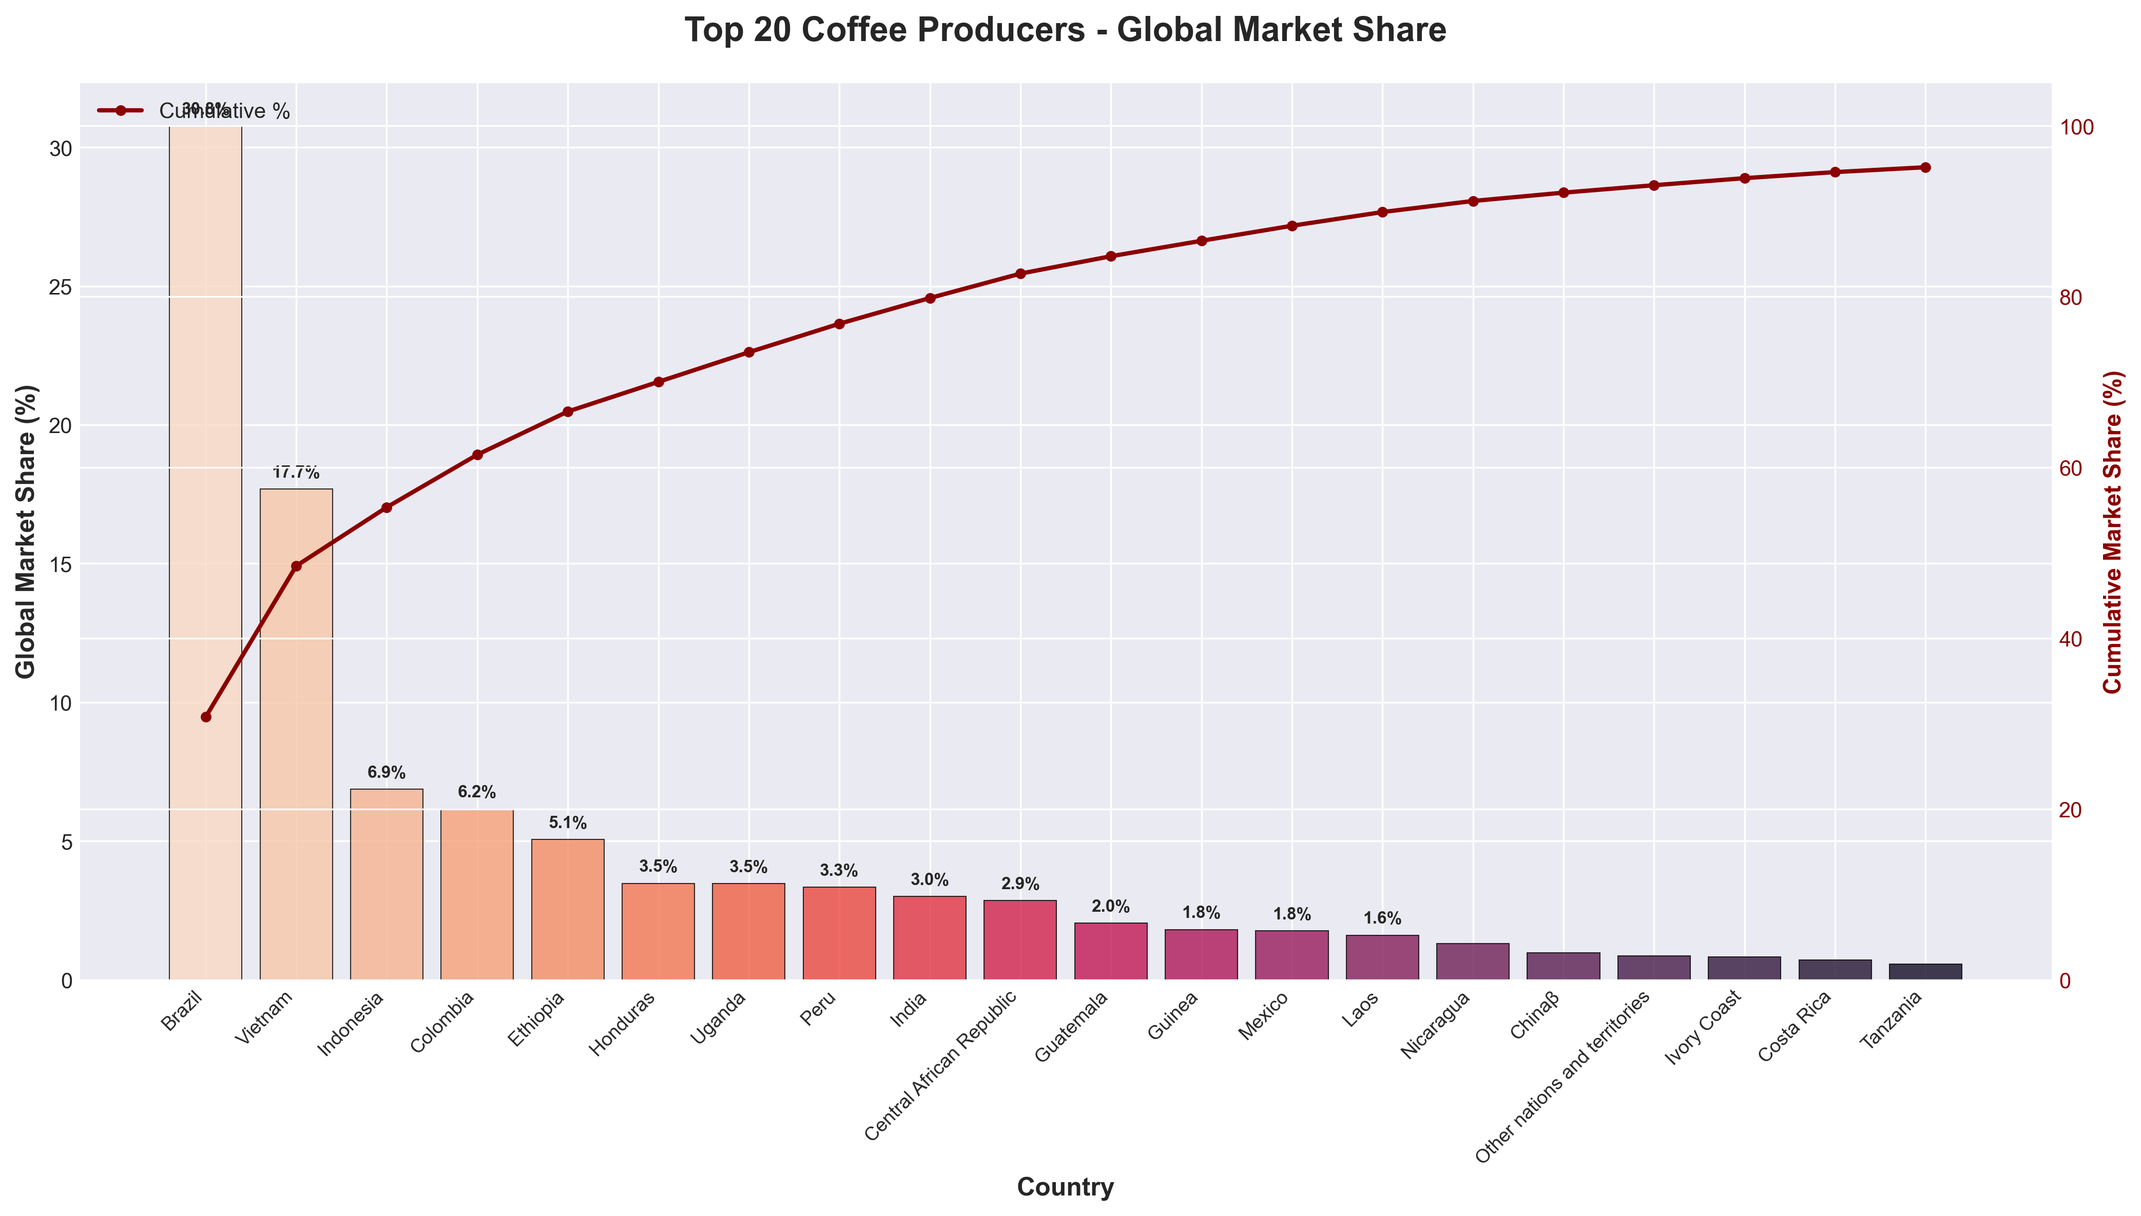
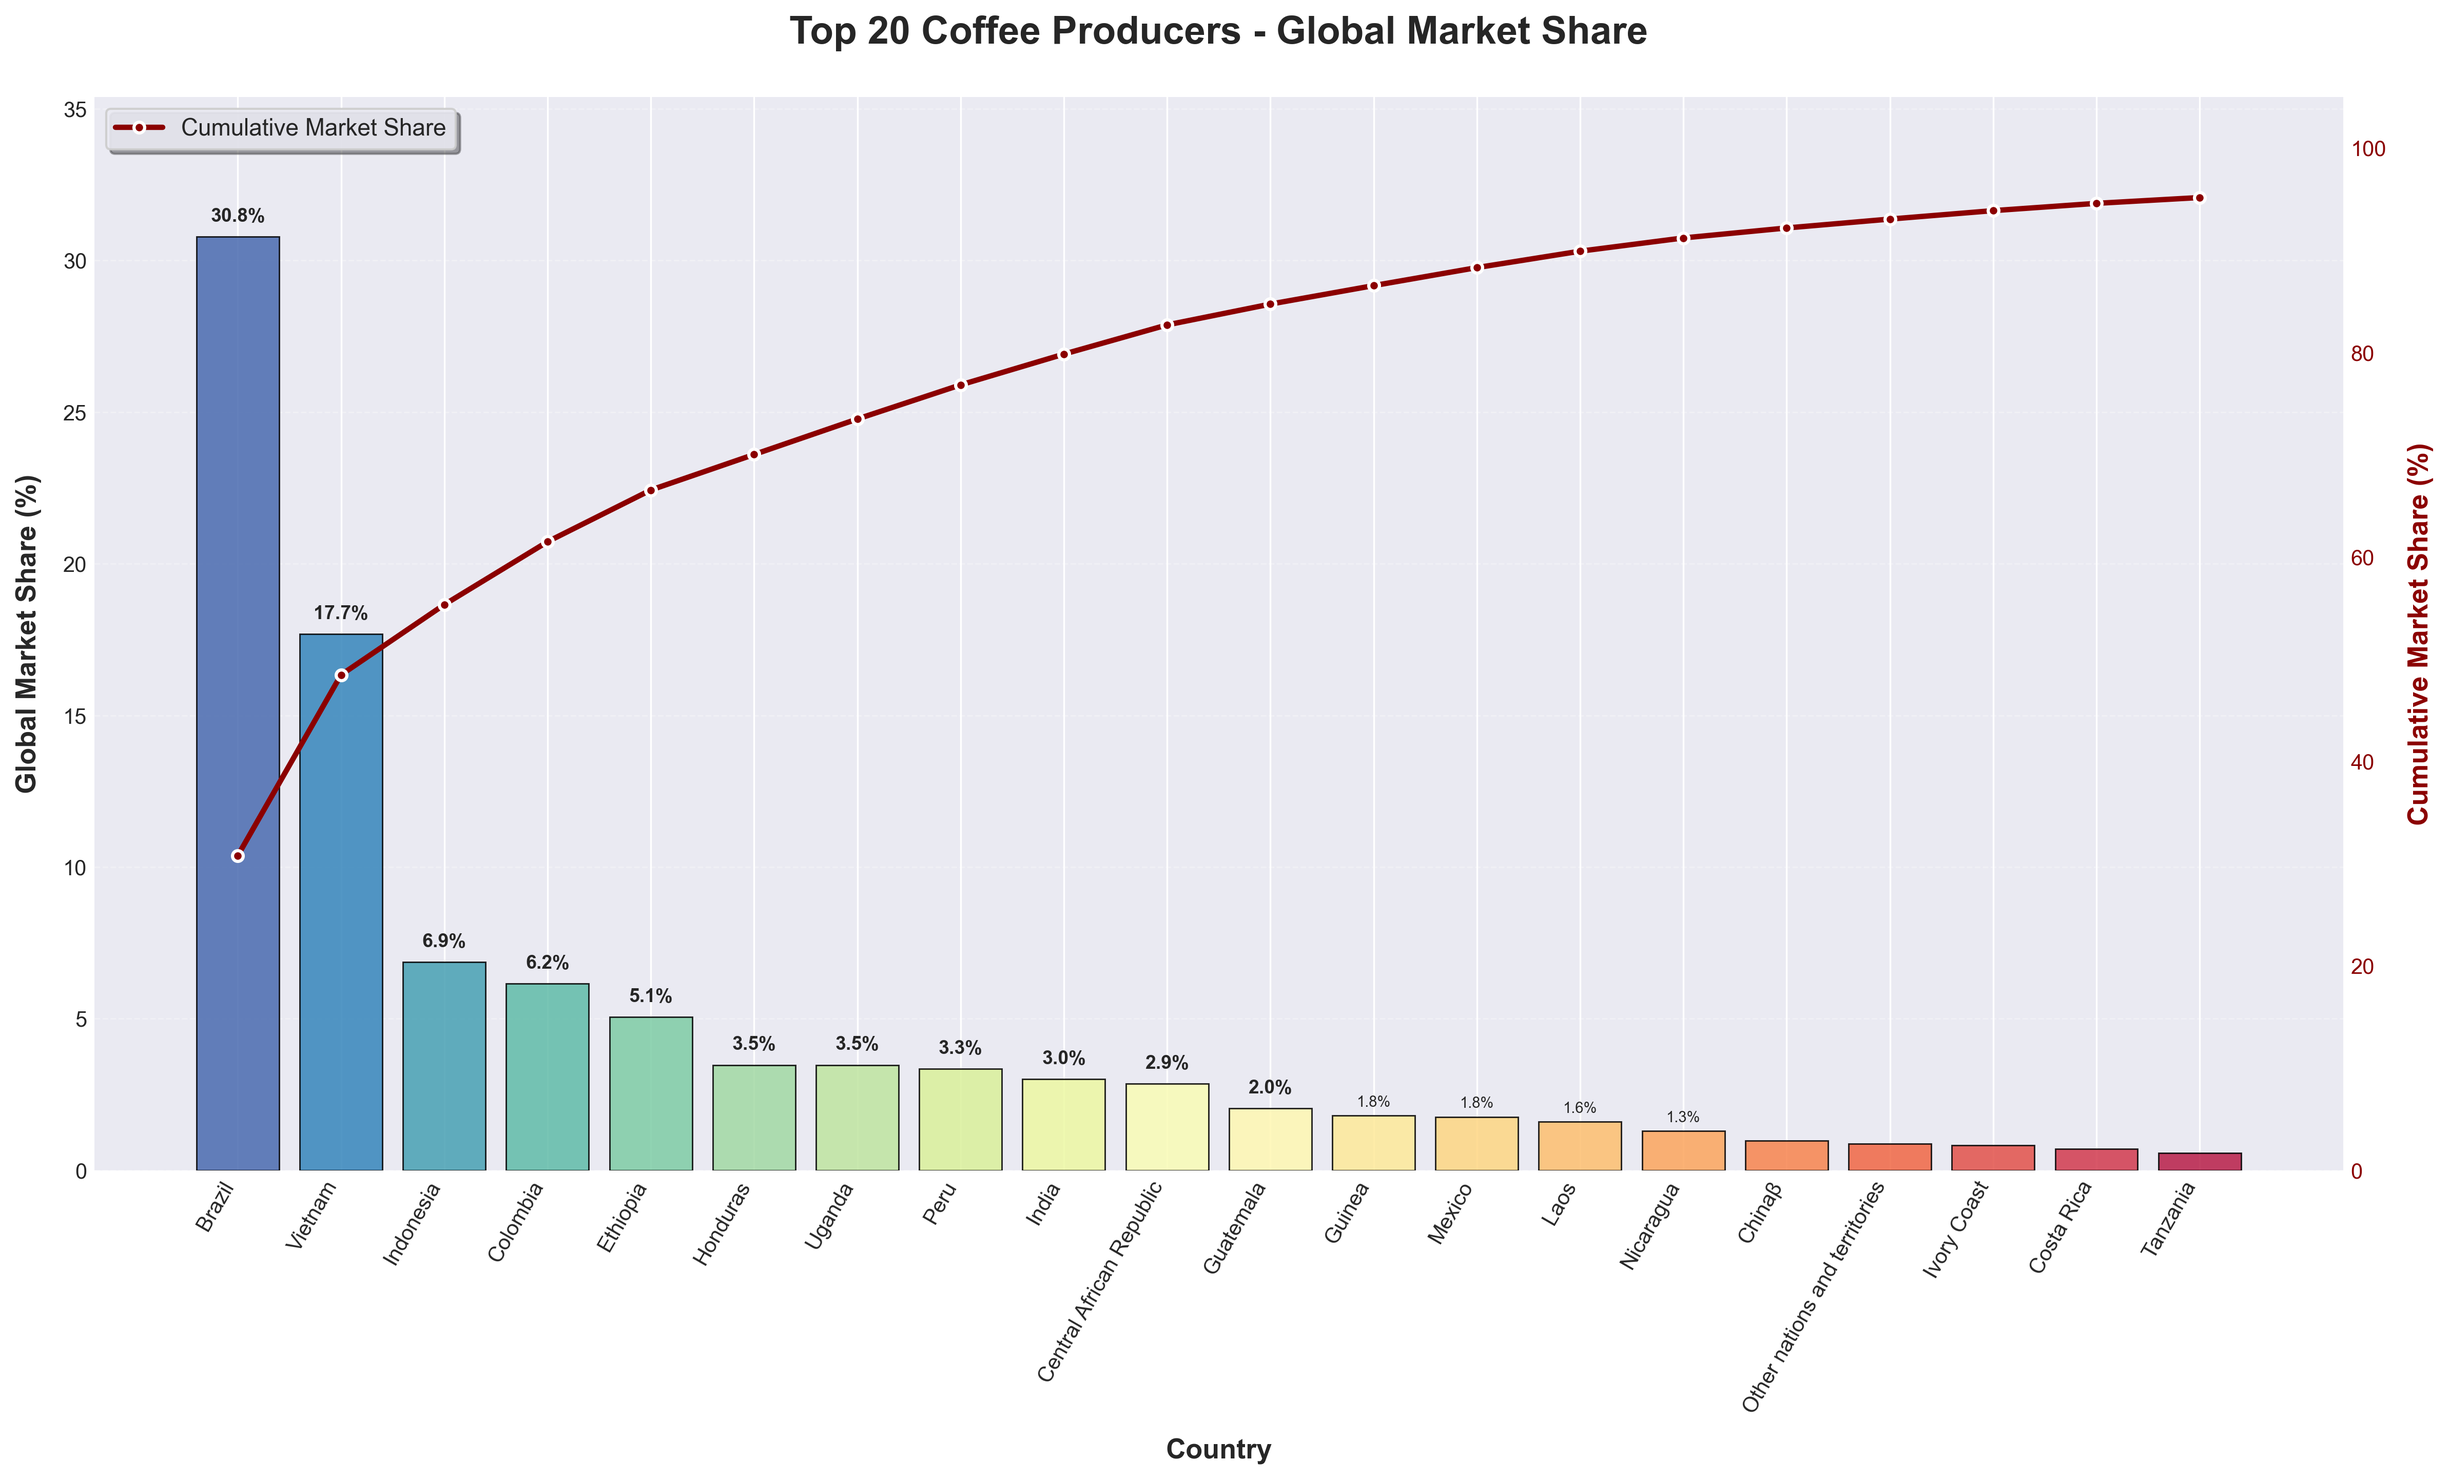
init

diff --git a/generate_charts.py b/generate_charts.py
@@ -349,34 +349,59 @@ def chart_top20_comparison(wiki_df):
     total_production = wiki_df['Production (tonnes)'].sum()
     top20['Market Share (%)'] = (top20['Production (tonnes)'] / total_production * 100)
 
-    fig, ax = plt.subplots(figsize=(14, 8))
+    # Create figure with more height to accommodate labels
+    fig, ax = plt.subplots(figsize=(16, 9))
 
+    # Create gradient colors
+    colors = sns.color_palette("Spectral_r", 20)
     bars = ax.bar(range(len(top20)), top20['Market Share (%)'],
-                  color=sns.color_palette("rocket_r", 20), alpha=0.8, edgecolor='black', linewidth=0.5)
+                  color=colors, alpha=0.85, edgecolor='black', linewidth=0.7)
 
-    ax.set_xlabel('Country', fontsize=12, fontweight='bold')
-    ax.set_ylabel('Global Market Share (%)', fontsize=12, fontweight='bold')
-    ax.set_title('Top 20 Coffee Producers - Global Market Share', fontsize=16, fontweight='bold', pad=20)
+    # Styling
+    ax.set_xlabel('Country', fontsize=13, fontweight='bold', labelpad=10)
+    ax.set_ylabel('Global Market Share (%)', fontsize=13, fontweight='bold', labelpad=10)
+    ax.set_title('Top 20 Coffee Producers - Global Market Share',
+                 fontsize=18, fontweight='bold', pad=25)
+
+    # Improve x-axis labels
     ax.set_xticks(range(len(top20)))
-    ax.set_xticklabels(top20['Country'], rotation=45, ha='right', fontsize=9)
+    ax.set_xticklabels(top20['Country'], rotation=60, ha='right', fontsize=10)
+    ax.set_ylim([0, max(top20['Market Share (%)']) * 1.15])
 
-    # Add percentage labels
+    # Add percentage labels on bars
     for i, (bar, pct) in enumerate(zip(bars, top20['Market Share (%)'])):
-        if pct > 1.5:
-            ax.text(bar.get_x() + bar.get_width()/2, bar.get_height() + 0.3,
-                   f'{pct:.1f}%', ha='center', va='bottom', fontweight='bold', fontsize=8)
+        if pct > 2.0:
+            ax.text(bar.get_x() + bar.get_width()/2, bar.get_height() + 0.4,
+                   f'{pct:.1f}%', ha='center', va='bottom', fontweight='bold', fontsize=9)
+        elif pct > 1.0:
+            ax.text(bar.get_x() + bar.get_width()/2, bar.get_height() + 0.2,
+                   f'{pct:.1f}%', ha='center', va='bottom', fontsize=7)
 
-    # Add cumulative line
+    # Add cumulative line on secondary axis
     ax2 = ax.twinx()
     cumulative = top20['Market Share (%)'].cumsum()
-    ax2.plot(range(len(top20)), cumulative, color='darkred', marker='o',
-             linewidth=2, markersize=4, label='Cumulative %')
-    ax2.set_ylabel('Cumulative Market Share (%)', fontsize=11, fontweight='bold', color='darkred')
-    ax2.tick_params(axis='y', labelcolor='darkred')
-    ax2.set_ylim([0, 105])
-    ax2.legend(loc='upper left')
+    line = ax2.plot(range(len(top20)), cumulative, color='#8B0000', marker='o',
+                    linewidth=2.5, markersize=5, label='Cumulative Market Share',
+                    markeredgecolor='white', markeredgewidth=1.5, zorder=10)
 
+    ax2.set_ylabel('Cumulative Market Share (%)', fontsize=13, fontweight='bold',
+                   color='#8B0000', labelpad=10)
+    ax2.tick_params(axis='y', labelcolor='#8B0000', labelsize=10)
+    ax2.set_ylim([0, 105])
+    ax2.grid(False)
+
+    # Add legend for cumulative line
+    ax2.legend(loc='upper left', fontsize=11, frameon=True, shadow=True,
+               fancybox=True, framealpha=0.9)
+
+    # Add grid for better readability
+    ax.grid(axis='y', alpha=0.3, linestyle='--', linewidth=0.7)
+    ax.set_axisbelow(True)
+
+    # Improve layout
     plt.tight_layout()
+    plt.subplots_adjust(bottom=0.15)  # Extra space for rotated labels
+
     plt.savefig(CHARTS_DIR / "07_market_share_top20.png", dpi=300, bbox_inches='tight')
     plt.close()
 
